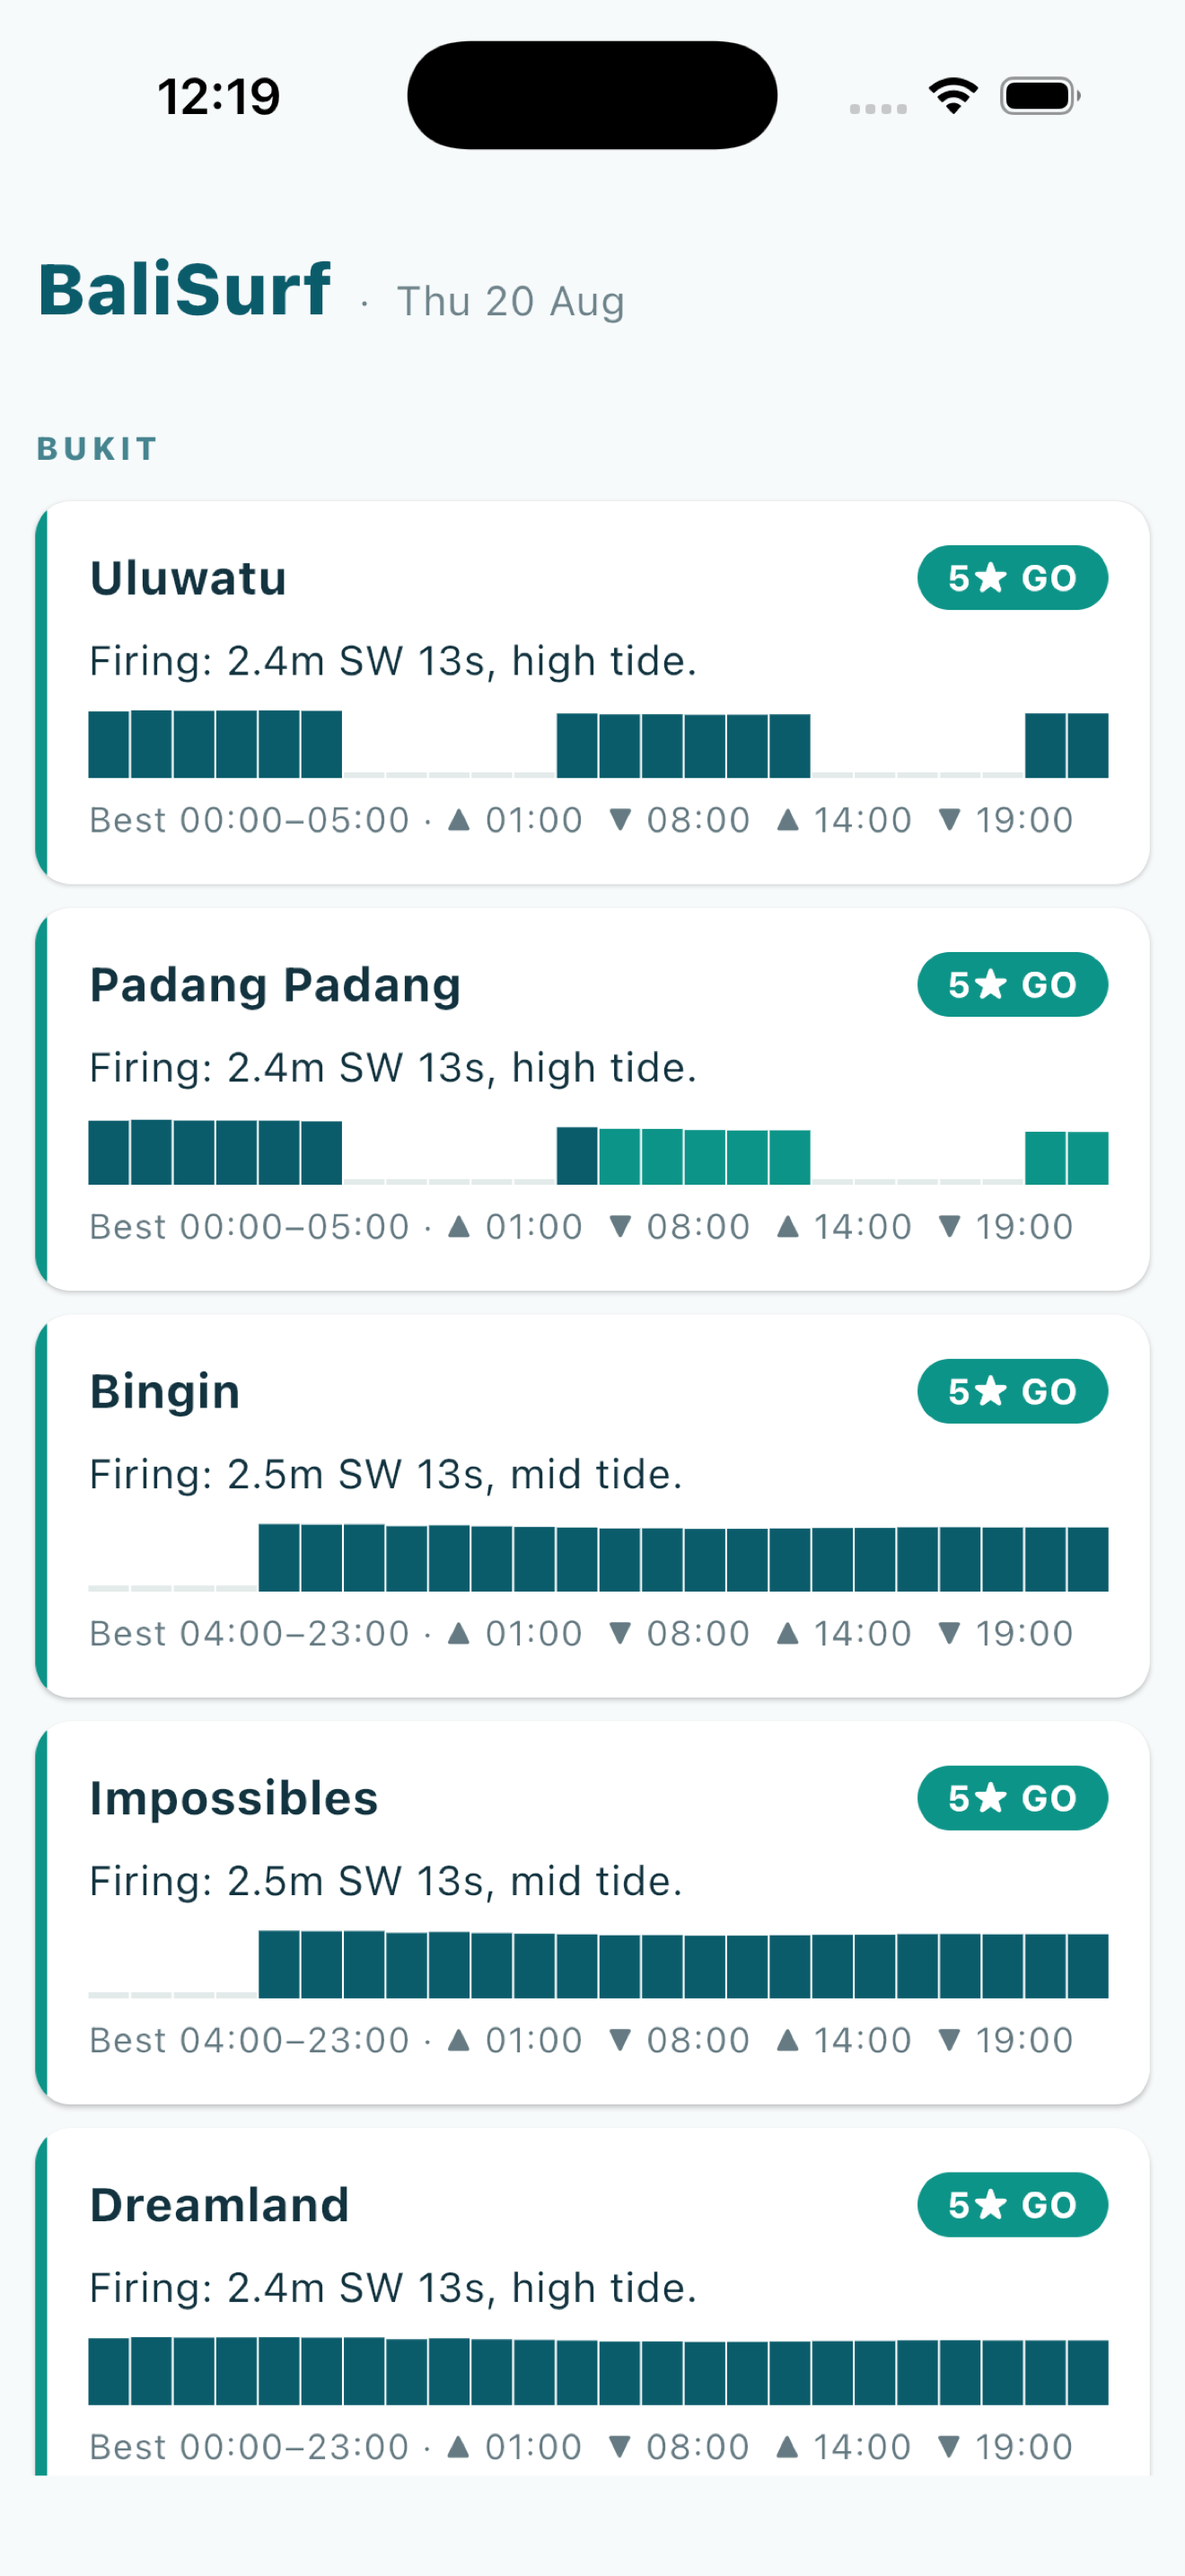
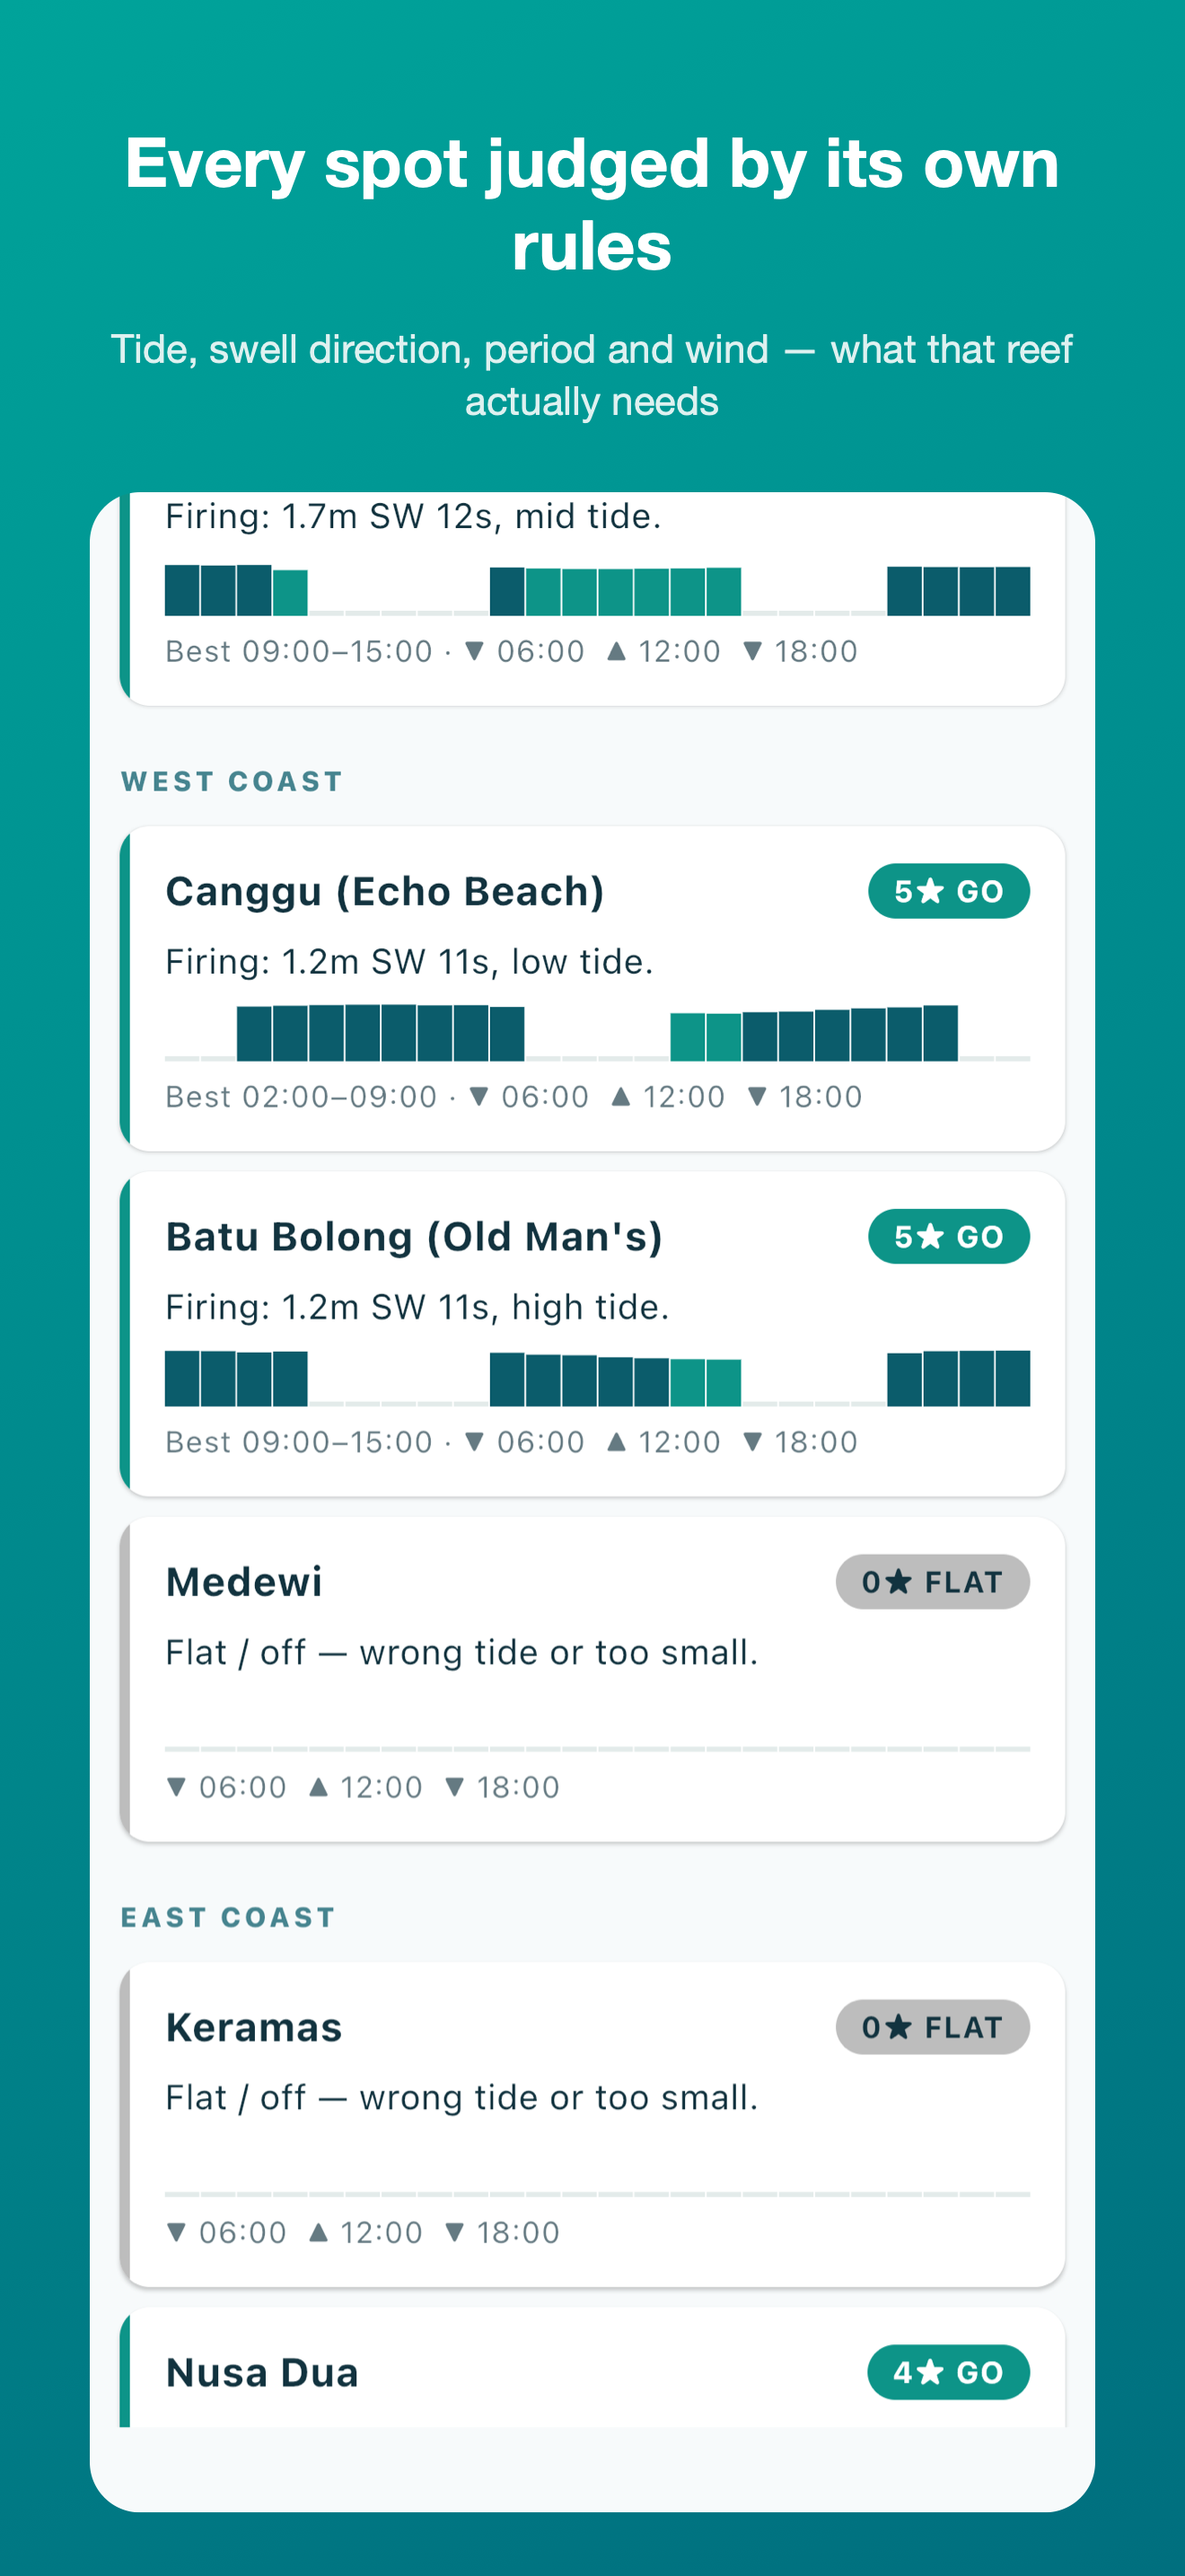
fix(store): answer the 4.3(a) rejection in the iOS listing
App Review rejected 1.0.0 under 4.3(a) (spam / similar to other apps). The
listing was the problem, not the binary: the one list screenshot showed every
spot at 5 stars with identical text, so the per-spot judgement — the thing that
is not a generic forecast wrapper — was invisible in the 60 seconds a reviewer
spends, and the reef bathymetry was buried under a broken scrolled capture.

- Re-take the three shots: the list now shows real spread across coasts (5-star
  GO next to 0-star FLAT), the detail shot shows rating + timeline + tides, and
  the reef map shot is framed cleanly instead of scrolled under the status bar.
- Caption every shot via tools/caption-shots.swift (CoreGraphics, same approach
  as gen-art.swift) so the differentiator is readable without launching the app.
- Rewrite the description to lead with the satellite reef maps and the per-spot
  rules, and drop the "early access, still being tuned" close.

No app code changed; build 2 stays attached to the version.

diff --git a/tools/caption-shots.swift b/tools/caption-shots.swift
@@ -1,0 +1,111 @@
+#!/usr/bin/env swift
+// Frames raw simulator screenshots into captioned App Store shots.
+// CoreGraphics only, same as tools/gen-art.swift.
+//
+//   swift tools/caption-shots.swift <in.png> <out.png> "Headline" "Subline" [cropTopPx]
+//
+// cropTopPx trims the simulator status bar (and anything scrolled under it)
+// off the top of the source shot before framing.
+//
+// Output is always 1320x2868 (iPhone 6.9"): teal gradient, caption on top,
+// the screenshot inset below it with rounded corners.
+
+import Foundation
+import CoreGraphics
+import CoreText
+import ImageIO
+import UniformTypeIdentifiers
+
+let teal = CGColor(red: 0x0D / 255, green: 0x94 / 255, blue: 0x88 / 255, alpha: 1)
+let deepTeal = CGColor(red: 0x0B / 255, green: 0x5C / 255, blue: 0x6B / 255, alpha: 1)
+let white = CGColor(gray: 1, alpha: 1)
+let sand = CGColor(red: 0xD7 / 255, green: 0xEE / 255, blue: 0xEC / 255, alpha: 1)
+let space = CGColorSpaceCreateDeviceRGB()
+
+let W = 1320, H = 2868
+let inset: CGFloat = 100          // side margin around the screenshot
+let capTop: CGFloat = 300         // headline baseline zone from the top
+let shotWidth = CGFloat(W) - inset * 2
+
+let args = CommandLine.arguments
+guard args.count >= 4 else {
+    FileHandle.standardError.write("usage: caption-shots.swift <in.png> <out.png> <headline> [subline]\n".data(using: .utf8)!)
+    exit(2)
+}
+let (inPath, outPath, headline) = (args[1], args[2], args[3])
+let subline = args.count > 4 ? args[4] : ""
+let cropTop = args.count > 5 ? Int(args[5]) ?? 0 : 0
+
+func font(_ name: String, _ size: CGFloat) -> CTFont { CTFontCreateWithName(name as CFString, size, nil) }
+
+func line(_ s: String, _ f: CTFont, _ color: CGColor) -> CTLine {
+    let attrs: [CFString: Any] = [kCTFontAttributeName: f, kCTForegroundColorAttributeName: color]
+    return CTLineCreateWithAttributedString(CFAttributedStringCreate(nil, s as CFString, attrs as CFDictionary))
+}
+
+func width(_ s: String, _ f: CTFont) -> CGFloat { CGFloat(CTLineGetTypographicBounds(line(s, f, white), nil, nil, nil)) }
+
+/// Greedy word wrap to `max` points.
+func wrap(_ s: String, _ f: CTFont, max: CGFloat) -> [String] {
+    var out: [String] = []
+    var cur = ""
+    for word in s.split(separator: " ") {
+        let trial = cur.isEmpty ? String(word) : cur + " " + word
+        if width(trial, f) <= max { cur = trial } else { if !cur.isEmpty { out.append(cur) }; cur = String(word) }
+    }
+    if !cur.isEmpty { out.append(cur) }
+    return out
+}
+
+func draw(_ c: CGContext, _ s: String, _ f: CTFont, _ color: CGColor, centeredAt y: CGFloat) {
+    let l = line(s, f, color)
+    let w = CGFloat(CTLineGetTypographicBounds(l, nil, nil, nil))
+    c.textPosition = CGPoint(x: (CGFloat(W) - w) / 2, y: y)
+    CTLineDraw(l, c)
+}
+
+guard let src = CGImageSourceCreateWithURL(URL(fileURLWithPath: inPath) as CFURL, nil),
+      let loaded = CGImageSourceCreateImageAtIndex(src, 0, nil) else {
+    FileHandle.standardError.write("cannot read \(inPath)\n".data(using: .utf8)!)
+    exit(1)
+}
+let shot = cropTop > 0
+    ? loaded.cropping(to: CGRect(x: 0, y: cropTop, width: loaded.width, height: loaded.height - cropTop))!
+    : loaded
+
+let c = CGContext(data: nil, width: W, height: H, bitsPerComponent: 8, bytesPerRow: 0,
+                  space: space, bitmapInfo: CGImageAlphaInfo.premultipliedLast.rawValue)!
+c.setAllowsAntialiasing(true)
+
+// Background gradient (top-left teal -> bottom-right deep teal).
+let g = CGGradient(colorsSpace: space, colors: [teal, deepTeal] as CFArray, locations: [0, 1])!
+c.drawLinearGradient(g, start: CGPoint(x: 0, y: H), end: CGPoint(x: W, y: 0), options: [])
+
+// Caption. Headline wraps; subline sits under it.
+let hFont = font("HelveticaNeue-Bold", 76)
+let sFont = font("HelveticaNeue", 44)
+let hLines = wrap(headline, hFont, max: shotWidth)
+var y = CGFloat(H) - capTop + CGFloat(hLines.count - 1) * 92
+for l in hLines { draw(c, l, hFont, white, centeredAt: y); y -= 92 }
+if !subline.isEmpty {
+    for l in wrap(subline, sFont, max: shotWidth) { draw(c, l, sFont, sand, centeredAt: y - 12); y -= 58 }
+}
+
+// Screenshot: scaled to the inset width, top-aligned under the caption, bottom
+// cropped by the canvas edge if it runs long.
+let scale = shotWidth / CGFloat(shot.width)
+let shotH = CGFloat(shot.height) * scale
+let top = y - 40
+let rect = CGRect(x: inset, y: top - shotH, width: shotWidth, height: shotH)
+c.saveGState()
+c.addPath(CGPath(roundedRect: rect, cornerWidth: 56, cornerHeight: 56, transform: nil))
+c.clip()
+c.draw(shot, in: rect)
+c.restoreGState()
+
+let url = URL(fileURLWithPath: outPath)
+try? FileManager.default.createDirectory(at: url.deletingLastPathComponent(), withIntermediateDirectories: true)
+let dest = CGImageDestinationCreateWithURL(url as CFURL, UTType.png.identifier as CFString, 1, nil)!
+CGImageDestinationAddImage(dest, c.makeImage()!, nil)
+CGImageDestinationFinalize(dest)
+print("wrote \(outPath) (\(W)x\(H))")
